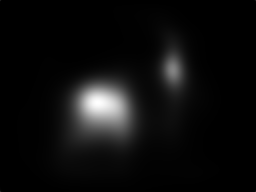
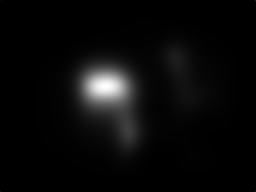
Added hollywood loader and inference

Changed region(s): [[0.25, 0.2812, 0.5312, 0.7812], [0.625, 0.25, 0.75, 0.5]]

diff --git a/src/inference.py b/src/inference.py
@@ -10,7 +10,7 @@ import torch.backends.cudnn as cudnn
 from torch import nn
 from torch.utils import data
 from torch.autograd import Variable
-from data_loader import DHF1K_frames, Ego_frames
+from data_loader import DHF1K_frames, Ego_frames, Hollywood_frames
 
 dtype = torch.FloatTensor
 if torch.cuda.is_available():
@@ -22,27 +22,30 @@ RESIDUAL,
 pretrained_model,
 dst
 """
-dataset_name = "DHF1K"
+dataset_name = "Hollywood-2"
 clip_length = 10 #with 10 clips the loss seems to reach zero very fast
 STARTING_VIDEO = 601
 NUMBER_OF_VIDEOS = 700# DHF1K offers 700 labeled videos, the other 300 are held back by the authors
-EMA_LOC = 7     # 30 is the bottleneck
+EMA_LOC = 30     # 30 is the bottleneck
 #EMA_LOC_2 = 54
 RESIDUAL = False
 DOUBLE = False
-DROPOUT = False
+DROPOUT = True
 ALPHA = 0.1
 #pretrained_model = '/imatge/lpanagiotis/work/SalGANmore/src/model_weights/gen_model.pt' # Vanilla SalGAN
 #pretrained_model = './SalGAN.pt'
 #pretrained_model = 'model_weights/salgan_salicon.pt' #JuanJo's weights, set EMA_LOC to None for original SalBCE, otherwise EMA will be added
 #pretrained_model = './SalGANplus.pt'
 #pretrained_model = './SalGANmid.pt'
-pretrained_model = './SalEMA{}D.pt'.format(EMA_LOC)
+pretrained_model = 'SalEMA{}D.pt'.format(EMA_LOC)
 #pretrained_model = 'SalEMA{}&{}.pt'.format(EMA_LOC,EMA_LOC_2)
 frame_size = (192, 256)
 # Destination for predictions:
-dst = "/imatge/lpanagiotis/work/{}/{}_test_set_predictions".format(dataset_name, pretrained_model.replace(".pt", ""))
+dst = "/imatge/lpanagiotis/work/{}/{}_predictions".format(dataset_name, pretrained_model.replace(".pt", ""))
+dst = "/home/linardos/Hollywood-2/testing"
 #dst = "/imatge/lpanagiotis/work/{}/SG_predictions".format(dataset_name)
+frames_path = "/imatge/lpanagiotis/work/DHF1K/frames"
+gt_path = "/imatge/lpanagiotis/work/DHF1K/maps"
 
 params = {'batch_size': 1,
           'num_workers': 4,
@@ -57,8 +60,8 @@ def main(dataset_name=dataset_name):
     if dataset_name == "DHF1K":
         print("Commencing inference for dataset {}".format(dataset_name))
         dataset = DHF1K_frames(
-            frames_path = "/imatge/lpanagiotis/work/DHF1K/frames",
-            gt_path = "/imatge/lpanagiotis/work/DHF1K/maps",
+            frames_path = frames_path,
+            gt_path = gt_path,
             starting_video = STARTING_VIDEO,
             number_of_videos = NUMBER_OF_VIDEOS,
             clip_length = clip_length,
@@ -69,10 +72,18 @@ def main(dataset_name=dataset_name):
     elif dataset_name == "Egomon":
         print("Commencing inference for dataset {}".format(dataset_name))
         dataset = Ego_frames(
-            frames_path = "/imatge/lpanagiotis/work/Egomon/frames",
+            frames_path = frames_path,
             clip_length = clip_length,
             resolution = frame_size)
         activity = dataset.match_i_to_act
+
+    elif dataset_name == "Hollywood-2":
+        print("Commencing inference for dataset {}".format(dataset_name))
+        dataset = Hollywood_frames(
+            root_path = dst,
+            clip_length = clip_length,
+            resolution = frame_size)
+        video_name_list = dataset.video_names() #match an index to the sample video name
 
     print("Size of test set is {}".format(len(dataset)))
 
@@ -181,8 +192,10 @@ def main(dataset_name=dataset_name):
         exit()
 
     #model = nn.DataParallel(model).cuda()
-    cudnn.benchmark = True #https://discuss.pytorch.org/t/what-does-torch-backends-cudnn-benchmark-do/5936
-    model = model.cuda()
+    if torch.cuda.is_available():
+        cudnn.benchmark = True #https://discuss.pytorch.org/t/what-does-torch-backends-cudnn-benchmark-do/5936
+        model = model.cuda()
+
     # ==================================================
     # ================== Inference =====================
 
@@ -236,6 +249,45 @@ def main(dataset_name=dataset_name):
                 if TEMPORAL:
                     state = repackage_hidden(state)
 
+        elif dataset_name == "Hollywood-2":
+
+            video_dst = os.path.join(dst, video_name_list[i], '{}_predictions'.format(pretrained_model.replace(".pt", "")))
+            print("Destination: {}".format(video_dst))
+            if not os.path.exists(video_dst):
+                os.mkdir(video_dst)
+
+            for j, (clip, _) in enumerate(video):
+                clip = Variable(clip.type(dtype).transpose(0,1), requires_grad=False)
+                if DOUBLE:
+                    if state == None:
+                        state = (None, None)
+                    for idx in range(clip.size()[0]):
+                        # Compute output
+                        state, saliency_map = model.forward(input_ = clip[idx], prev_state_1 = state[0], prev_state_2 = state[1])
+
+                        saliency_map = saliency_map.squeeze(0) # Target is 3 dimensional (grayscale image)
+
+                        post_process_saliency_map = (saliency_map-torch.min(saliency_map))/(torch.max(saliency_map)-torch.min(saliency_map))
+                        utils.save_image(post_process_saliency_map, os.path.join(video_dst, "{}.png".format(str(count).zfill(4))))
+
+                else:
+                    for idx in range(clip.size()[0]):
+                        # Compute output
+                        if TEMPORAL:
+                            state, saliency_map = model.forward(input_ = clip[idx], prev_state = state)
+                        else:
+                            saliency_map = model.forward(input_ = clip[idx])
+
+                        count+=1
+                        saliency_map = saliency_map.squeeze(0)
+
+                        post_process_saliency_map = (saliency_map-torch.min(saliency_map))/(torch.max(saliency_map)-torch.min(saliency_map))
+                        utils.save_image(post_process_saliency_map, os.path.join(video_dst, "{}{}.png".format(video_name_list[i][:-1], str(count).zfill(5))))
+                        if count == 1:
+                            print("The final destination is {}. Cancel now if this is incorrect".format(os.path.join(video_dst, "{}{}.png".format(video_name_list[i][:-1], str(count).zfill(5)))))
+
+                if TEMPORAL:
+                    state = repackage_hidden(state)
         elif dataset_name == "Egomon":
 
             video_dst = os.path.join(dst, activity[i])

diff --git a/src/data_loader.py b/src/data_loader.py
@@ -129,6 +129,114 @@ class DHF1K_frames(data.Dataset):
 
         return packed
 
+# The DataLoader for our specific video datataset with extracted frames
+class Hollywood_frames(data.Dataset):
+
+  def __init__(self, clip_length, resolution=None, root_path = "~/work/Hollywood-2/testing/", load_gt = False):
+
+        self.cl = clip_length
+        self.root_path = root_path # in our case it's salgan saliency maps
+        self.ImageNet_mean = [103.939, 116.779, 123.68]
+        self.resolution = resolution
+        self.load_gt = load_gt
+        # A list to keep all video lists of salgan predictions, which will be our dataset.
+        self.video_list = []
+
+        # A list to keep all the dictionaries of ground truth - saliency map pairings for each video
+        self.gts_list = []
+
+        # A list to match an index to the video name
+        self.video_name_list = []
+
+        sample_list = os.listdir(root_path)
+        start = datetime.datetime.now().replace(microsecond=0) # Gives accurate human readable time, rounded down not to include too many decimals
+        count = 0
+        for i in sample_list:
+
+            frame_files = [os.path.join(self.root_path, str(i), "images", file) for file in  os.listdir(os.path.join(self.root_path, str(i), "images"))]
+            #print("for video {} the frames are {}".format(i, len(frame_files))) # This is correct
+
+            # Now to sort based on their file number. The "key" parameter in sorted is a function based on which the sorting will happen (I use split to exclude the jpg/png from the).
+            frame_files_sorted = sorted(frame_files)
+            # a list of lists
+            self.video_list.append(frame_files_sorted)
+            self.video_name_list.append(i)
+
+            count += 1
+            if load_gt:
+              # This is not correct, I never used the gt to train. Will need to change the code to load them.
+              gt_files = os.listdir(os.path.join(self.root_path, str(i), "maps"))
+              gt_files_sorted = sorted(gt_files)
+              pack = zip(gt_files_sorted, frame_files_sorted)
+
+              # Make dictionary where keys are the saliency maps and values are the ground truths
+              gt_frame_pairings = {}
+              for gt, frame in pack:
+                  gt_frame_pairings[frame] = gt
+
+              self.gts_list.append(gt_frame_pairings)
+
+            if count%50==0:
+              print("Video {} (Number {}) finished.".format(i, count))
+              print("Time elapsed so far: {}".format(datetime.datetime.now().replace(microsecond=0)-start))
+
+  def video_names(self):
+      return self.video_name_list
+
+  def __len__(self):
+        'Denotes the total number of samples'
+        return len(self.video_list)
+
+  def __getitem__(self, video_index):
+
+        'Generates one sample of data'
+        # Select sample video (frame list), in our case saliency map list
+        frames = self.video_list[video_index]
+        if self.load_gt:
+          gts = self.gts_list[video_index]
+
+
+        data = []
+        gt = []
+        packed = []
+        print(frames[0])
+        for i, path_to_frame in enumerate(frames):
+
+          X = cv2.imread(path_to_frame)
+          if self.resolution!=None:
+            X = cv2.resize(X, (self.resolution[1], self.resolution[0]), interpolation=cv2.INTER_AREA)
+          X = X.astype(np.float32)
+          X -= self.ImageNet_mean
+          #X = (X-np.min(X))/(np.max(X)-np.min(X))
+          X = torch.FloatTensor(X)
+          X = X.permute(2,0,1) # swap channel dimensions
+
+          data.append(X.unsqueeze(0))
+          # Load and preprocess ground truth (saliency maps)
+          if self.load_gt:
+
+            y = cv2.imread(path_to_frame, 0) # Load as grayscale
+            if self.resolution!=None:
+              y = cv2.resize(y, (self.resolution[1], self.resolution[0]), interpolation=cv2.INTER_AREA)
+            y = (y-np.min(y))/(np.max(y)-np.min(y))
+            y = torch.FloatTensor(y)
+
+            gt.append(y.unsqueeze(0))
+
+          if (i+1)%self.cl == 0 or i == (len(frames)-1):
+
+            data_tensor = torch.cat(data,0)
+            data = []
+            if self.load_gt:
+              gt_tensor = torch.cat(gt,0)
+              gt = []
+              packed.append((data_tensor,gt_tensor)) # pack a list of data with the corresponding list of ground truths
+            else:
+              packed.append((data_tensor, "_"))
+
+
+        return packed
+
 
 
 
